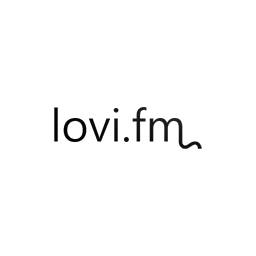
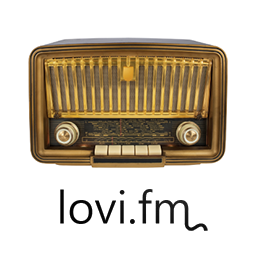
save

diff --git a/src/core/radio.py b/src/core/radio.py
@@ -1,0 +1,117 @@
+# -*- coding: utf-8 -*-
+
+import re
+
+import xbmcup.app
+import xbmcup.system
+import xbmcup.net
+import xbmcup.parser
+import xbmcup.gui
+
+import cover
+
+
+class Fetch:
+    def fetch(self, country, genre, page):
+        if country == '0' and genre == '0':
+            url = 'http://lovi.fm/stations/?sort=listens'
+        elif country == '0':
+            url = 'http://lovi.fm/category/' + str(genre) + '/?sort=listens'
+        elif genre == '0':
+            url = 'http://lovi.fm/category/' + str(country) + '/?sort=listens'
+        else:
+            url = 'http://lovi.fm/category/' + str(genre) + ',' + str(country) + '/?sort=listens'
+
+        if page > 1:
+            url += '&p=' + str(page) + '&scroll=1'
+
+        response = xbmcup.net.http.get(url)
+        if response.status_code != 200:
+            return {'count': 0, 'data': []}
+        result = {'count': 0, 'data': []}
+
+        if page == 1:
+            r = re.compile(u'Найдено станций: <b>([0-9]+)</b>', re.U|re.S).search(response.text)
+            if not r:
+                return result
+            result['count'] = int(r.group(1))
+
+        soup = xbmcup.parser.html(response.text)
+        for li in soup.find_all('li'):
+            link = li.get('data-link')
+            name = li.get('data-name')
+            if link and name:
+                img = li.find('img')
+                if img:
+                    img = 'http://lovi.fm' + img.get('src')
+                result['data'].append({
+                    'link': link,
+                    'name': name,
+                    'img': img
+                })
+
+        return result
+
+
+class RadioList(xbmcup.app.Handler, Fetch):
+    def handle(self):
+        response = self.fetch(self.argv['country'], self.argv['genre'], self.argv['page'])
+        for item in response['data']:
+            self.item(item['name'], self.play(item['link']), cover=item['img'])
+        self.render()
+
+
+class Radio(xbmcup.app.Handler, Fetch):
+    def handle(self):
+        country, genre = self.get_filter()
+        self.item(country[1], self.replace('radio', mode='country'), folder=True, cover=cover.lovifm)
+        self.item(genre[1], self.replace('radio', mode='genre'), folder=True, cover=cover.lovifm)
+        response = self.fetch(country[0], genre[0], 1)
+        if response['count'] > 0:
+            self.item(xbmcup.app.plural.parse(response['count'], 30001), self.link('radio-list', country=country[0], genre=genre[0], page=1), folder=True, cover=cover.lovifm)
+
+
+    def get_filter(self):
+        tags = self.load_tags()
+        mode = self.argv.get('mode') if self.argv else None
+
+        # country
+        country = xbmcup.app.setting['country']
+        if mode == 'country':
+            country = self.set_setting('country', country, tags['countries'])
+        country_pair = [x for x in tags['countries'] if x[0] == country]
+        if not country_pair:
+            country_pair = [tags['countries'][0]]
+
+        # genre
+        genre = xbmcup.app.setting['genre']
+        if mode == 'genre':
+            genre = self.set_setting('genre', genre, tags['genres'])
+        genre_pair = [x for x in tags['genres'] if x[0] == genre]
+        if not genre_pair:
+            genre_pair = [tags['genres'][0]]
+
+        return country_pair[0], genre_pair[0]
+
+
+    def set_setting(self, tag, current, values):
+        sel = xbmcup.gui.select(u'Выберите страну' if tag == 'country' else u'Выберите жанр', values)
+        if sel and sel != current:
+            xbmcup.app.setting[tag] = sel
+            current = sel
+        return current
+
+
+    def load_tags(self):
+        result = {'countries': [('0', u'Все страны')], 'genres': [('0', u'Все жанры')]}
+        r = xbmcup.net.http.get('http://lovi.fm/stations/')
+        if r.status_code == 200:
+            soup = xbmcup.parser.html(r.text)
+            for a in soup.find(id='tab2').find_all('a'):
+                result['countries'].append((a.get('data-id'), a.string))
+            for a in soup.find(id='tab1').find_all('a'):
+                result['genres'].append((a.get('data-id'), a.string))
+        return {
+            'countries': sorted(result['countries'], key=lambda x:x[1]),
+            'genres': sorted(result['genres'], key=lambda x:x[1])
+        }

diff --git a/src/core/index.py b/src/core/index.py
@@ -2,8 +2,9 @@
 
 import xbmcup.app
 
+import cover
+
 class Index(xbmcup.app.Handler):
     def handle(self):
-        cover = xbmcup.system.fs('home://addons/plugin.audio.lastvk/icon.png')
-        self.item(u'Страна', self.link('playlists'), folder=True, cover=cover)
-        self.item(u'Жанр', self.link('playlists'), folder=True, cover=cover)
+        self.item(u'Радиостанции', self.link('radio'), folder=True, cover=cover.lovifm)
+        self.item(u'Закладки', self.link('favorite'), folder=True, cover=cover.favorite)

diff --git a/src/core/cover.py b/src/core/cover.py
@@ -1,0 +1,8 @@
+# -*- coding: utf-8 -*-
+
+import xbmcup.system
+
+backward = xbmcup.system.fs('home://addons/plugin.audio.lovifm/resources/media/icons/backward.png')
+forward  = xbmcup.system.fs('home://addons/plugin.audio.lovifm/resources/media/icons/forward.png')
+favorite  = xbmcup.system.fs('home://addons/plugin.audio.lovifm/resources/media/icons/favorite.png')
+lovifm  = xbmcup.system.fs('home://addons/plugin.audio.lovifm/resources/media/icons/lovifm.png')

diff --git a/src/main.py b/src/main.py
@@ -3,11 +3,14 @@
 import xbmcup.app
 
 
-
+from core.index import Index
+from core.radio import Radio, RadioList
 
 
 plugin = xbmcup.app.Plugin()
 
 plugin.route(None, Index)
+plugin.route('radio', Radio)
+plugin.route('radio-list', RadioList)
 
 plugin.run()
